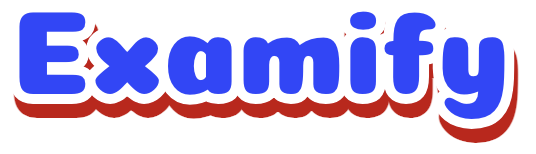
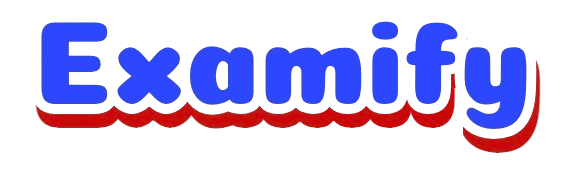
changes header name name

Changed region(s): [[0.0299, 0.0779, 0.9851, 0.9351], [0.597, 0.5974, 0.6269, 0.6234], [0.0, 0.6234, 0.0299, 0.6494]]

diff --git a/src/app/header/header.component.css b/src/app/header/header.component.css
@@ -8,7 +8,7 @@
 }
 
 .logo-name{
-   background-image: url("../../assets/Images/examify_name3.png");
+   background-image: url("../../assets/Images/examify_name.png");
    width: 200px;
    background-size: 100%;
    height: 54px;
